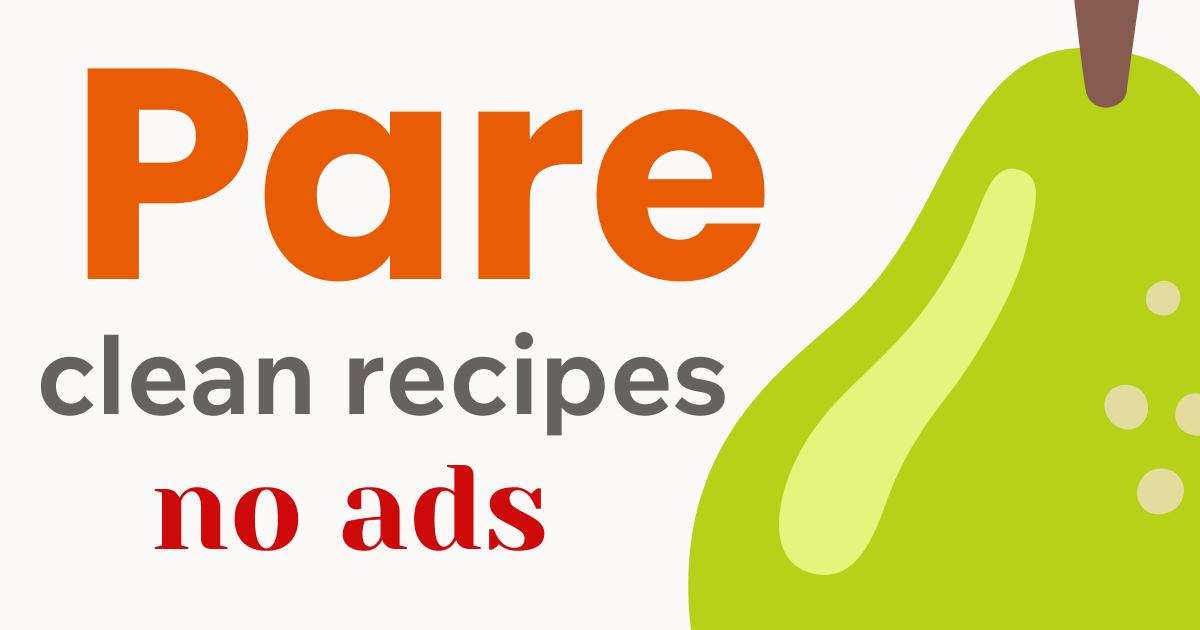
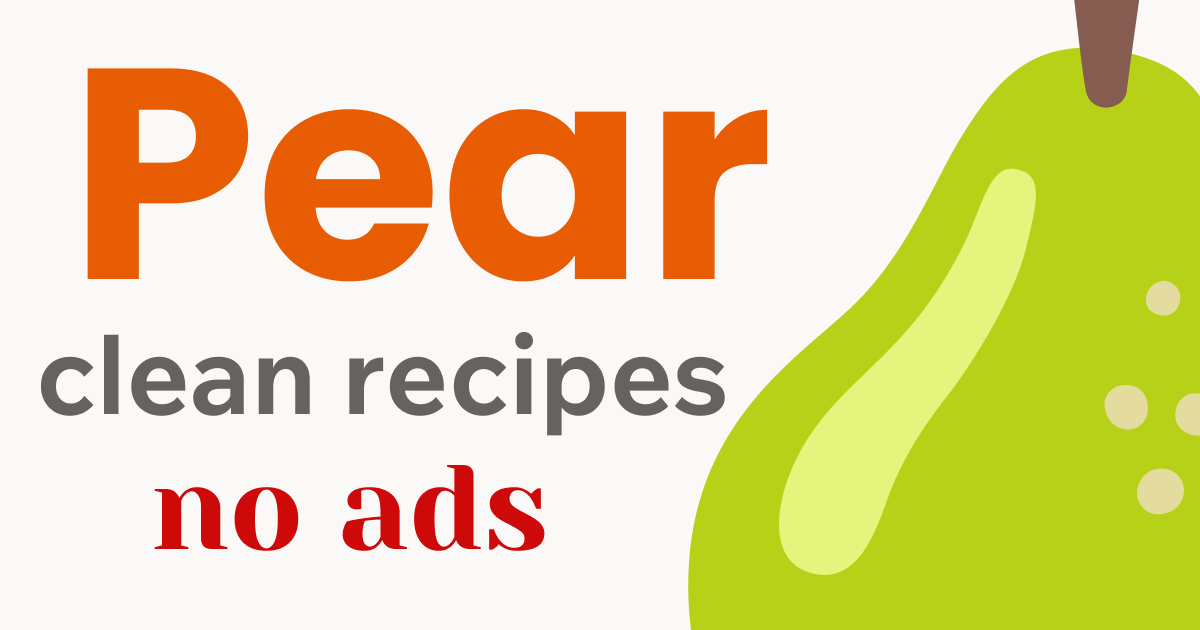
chore: rename to pear

Changed region(s): [[0.2467, 0.1508, 0.6475, 0.4524], [0.555, 0.1508, 0.5858, 0.181], [0.2775, 0.3619, 0.3083, 0.3921]]

diff --git a/ui/templates/index.html b/ui/templates/index.html
@@ -4,20 +4,20 @@
 <head>
   <meta charset="utf-8">
   <meta name="viewport" content="width=device-width,initial-scale=1">
-  <title>pare: nice recipes</title>
+  <title>pear: nice recipes</title>
   <link rel="icon" type="image/svg+xml" href="/static/favicon.svg">
   <link rel="stylesheet" href="/static/style.css">
-  <meta property="og:title" content="pare: nice recipes">
+  <meta property="og:title" content="pear: nice recipes">
   <meta property="og:type" content="website">
   <meta property="og:url" content="{{.BaseURL}}">
   <meta property="og:image" content="{{.BaseURL}}/static/og.png">
   <meta name="twitter:card" content="summary">
-  <meta name="twitter:title" content="pare: nice recipes">
+  <meta name="twitter:title" content="pear: nice recipes">
   <meta name="twitter:image" content="{{.BaseURL}}/static/og.png">
 </head>
 <body>
   <nav>
-    <a href="/" class="wordmark">pare</a>
+    <a href="/" class="wordmark">pear</a>
   </nav>
   <div class="page">
     <div class="hero">
@@ -25,14 +25,14 @@
       <div class="search-form">
         <form method="GET" action="/">
           <input type="text" name="url" placeholder="https://www.seriouseats.com/..." value="" autofocus>
-          <button type="submit">pare it</button>
+          <button type="submit">pear it</button>
         </form>
       </div>
     </div>
   </div>
   <footer>
     <span>made by <a href="https://dunkirk.sh" target="_blank" rel="noopener">Kieran Klukas</a></span>
-    <a href="https://tangled.org/dunkirk.sh/pare/commit/{{.GitHash}}" target="_blank" rel="noopener" class="commit-link">{{.GitHash}}</a>
+    <a href="https://tangled.org/dunkirk.sh/pear/commit/{{.GitHash}}" target="_blank" rel="noopener" class="commit-link">{{.GitHash}}</a>
   </footer>
 </body>
 </html>

diff --git a/ui/templates/recipe.html b/ui/templates/recipe.html
@@ -19,7 +19,7 @@
 </head>
 <body>
   <nav>
-    <a href="/" class="wordmark">pare</a>
+    <a href="/" class="wordmark">pear</a>
   </nav>
   <div class="page">
 {{if .Recipe.ImageURL}}
@@ -95,15 +95,15 @@ function saveChecks() {
     const label = li.querySelector('label').textContent;
     if (li.classList.contains('checked')) state[label] = true;
   });
-  localStorage.setItem('pare:' + location.pathname.slice(1), JSON.stringify({t: Date.now(), s: state}));
+  localStorage.setItem('pear:' + location.pathname.slice(1), JSON.stringify({t: Date.now(), s: state}));
 }
 
 function loadChecks() {
   try {
-    const raw = JSON.parse(localStorage.getItem('pare:' + location.pathname.slice(1)) || 'null');
+    const raw = JSON.parse(localStorage.getItem('pear:' + location.pathname.slice(1)) || 'null');
     if (!raw) return;
     if (Date.now() - raw.t > 48 * 60 * 60 * 1000) {
-      localStorage.removeItem('pare:' + location.pathname.slice(1));
+      localStorage.removeItem('pear:' + location.pathname.slice(1));
       return;
     }
     document.querySelectorAll('.ingredient-list li').forEach(li => {
@@ -233,7 +233,7 @@ if ('Notification' in window && Notification.permission === 'default') {
   </div>
   <footer>
     <span>made by <a href="https://dunkirk.sh" target="_blank" rel="noopener">Kieran Klukas</a></span>
-    <a href="https://tangled.org/dunkirk.sh/pare/commit/{{.GitHash}}" target="_blank" rel="noopener" class="commit-link">{{.GitHash}}</a>
+    <a href="https://tangled.org/dunkirk.sh/pear/commit/{{.GitHash}}" target="_blank" rel="noopener" class="commit-link">{{.GitHash}}</a>
   </footer>
 </body>
 </html>

diff --git a/ui/templates/loading.html b/ui/templates/loading.html
@@ -4,13 +4,13 @@
 <head>
   <meta charset="utf-8">
   <meta name="viewport" content="width=device-width,initial-scale=1">
-  <title>pare - extracting…</title>
+  <title>pear - extracting…</title>
   <link rel="icon" type="image/svg+xml" href="/static/favicon.svg">
   <link rel="stylesheet" href="/static/style.css">
 </head>
 <body>
   <nav>
-    <a href="/" class="wordmark">pare</a>
+    <a href="/" class="wordmark">pear</a>
   </nav>
   <div class="page">
     <div class="loading-box" id="loading-container">
@@ -22,7 +22,7 @@
   </div>
   <footer>
     <span>made by <a href="https://dunkirk.sh" target="_blank" rel="noopener">Kieran Klukas</a></span>
-    <a href="https://tangled.org/dunkirk.sh/pare/commit/{{.GitHash}}" target="_blank" rel="noopener" class="commit-link">{{.GitHash}}</a>
+    <a href="https://tangled.org/dunkirk.sh/pear/commit/{{.GitHash}}" target="_blank" rel="noopener" class="commit-link">{{.GitHash}}</a>
   </footer>
 <script>
 const targetURL = "{{.TargetURL | urlquery}}";

diff --git a/ui/templates/error.html b/ui/templates/error.html
@@ -4,13 +4,13 @@
 <head>
   <meta charset="utf-8">
   <meta name="viewport" content="width=device-width,initial-scale=1">
-  <title>pare - error</title>
+  <title>pear - error</title>
   <link rel="icon" type="image/svg+xml" href="/static/favicon.svg">
   <link rel="stylesheet" href="/static/style.css">
 </head>
 <body>
   <nav>
-    <a href="/" class="wordmark">pare</a>
+    <a href="/" class="wordmark">pear</a>
   </nav>
   <div class="page">
     <div class="error-box">
@@ -21,7 +21,7 @@
   </div>
   <footer>
     <span>made by <a href="https://dunkirk.sh" target="_blank" rel="noopener">Kieran Klukas</a></span>
-    <a href="https://tangled.org/dunkirk.sh/pare/commit/{{.GitHash}}" target="_blank" rel="noopener" class="commit-link">{{.GitHash}}</a>
+    <a href="https://tangled.org/dunkirk.sh/pear/commit/{{.GitHash}}" target="_blank" rel="noopener" class="commit-link">{{.GitHash}}</a>
   </footer>
 <script>
 const errorPhrases = [

diff --git a/ui/templates/cook.html b/ui/templates/cook.html
@@ -10,7 +10,7 @@
 </head>
 <body>
   <nav>
-    <a href="/" class="wordmark">pare</a>
+    <a href="/" class="wordmark">pear</a>
   </nav>
   <div class="page">
     <div class="cook-header">
@@ -31,7 +31,7 @@
   </div>
   <footer>
     <span>made by <a href="https://dunkirk.sh" target="_blank" rel="noopener">Kieran Klukas</a></span>
-    <a href="https://tangled.org/dunkirk.sh/pare/commit/{{.GitHash}}" target="_blank" rel="noopener" class="commit-link">{{.GitHash}}</a>
+    <a href="https://tangled.org/dunkirk.sh/pear/commit/{{.GitHash}}" target="_blank" rel="noopener" class="commit-link">{{.GitHash}}</a>
   </footer>
 <script>
 function copyCook() {

diff --git a/ui/templates/base.html b/ui/templates/base.html
@@ -4,13 +4,13 @@
 <head>
   <meta charset="utf-8">
   <meta name="viewport" content="width=device-width,initial-scale=1">
-  <title>{{block "title" .}}pare{{end}}</title>
+  <title>{{block "title" .}}pear{{end}}</title>
   <link rel="icon" type="image/svg+xml" href="/static/favicon.svg">
   <link rel="stylesheet" href="/static/style.css">
 </head>
 <body>
   <nav>
-    <a href="/" class="wordmark">pare</a>
+    <a href="/" class="wordmark">pear</a>
   </nav>
   <div class="page">
     {{block "content" .}}{{end}}

diff --git a/main.go b/main.go
@@ -19,11 +19,11 @@ import (
 	"github.com/go-chi/chi/v5/middleware"
 	"github.com/joho/godotenv"
 
-	"tangled.org/dunkirk.sh/pare/internal/cache"
-	"tangled.org/dunkirk.sh/pare/internal/cooklang"
-	"tangled.org/dunkirk.sh/pare/internal/extract"
-	"tangled.org/dunkirk.sh/pare/internal/models"
-	"tangled.org/dunkirk.sh/pare/ui"
+	"tangled.org/dunkirk.sh/pear/internal/cache"
+	"tangled.org/dunkirk.sh/pear/internal/cooklang"
+	"tangled.org/dunkirk.sh/pear/internal/extract"
+	"tangled.org/dunkirk.sh/pear/internal/models"
+	"tangled.org/dunkirk.sh/pear/ui"
 )
 
 var gitHash = "dev"
@@ -31,7 +31,7 @@ var gitHash = "dev"
 func main() {
 	godotenv.Load()
 	port := flag.Int("port", 3000, "port to listen on")
-	dbPath := flag.String("db", "pare.db", "path to SQLite database")
+	dbPath := flag.String("db", "pear.db", "path to SQLite database")
 	baseURL := flag.String("base-url", "", "base URL of this service")
 	flag.Parse()
 

diff --git a/internal/extract/pipeline.go b/internal/extract/pipeline.go
@@ -10,10 +10,10 @@ import (
 	"strings"
 	"time"
 
-	"tangled.org/dunkirk.sh/pare/internal/extract/hrecipe"
-	"tangled.org/dunkirk.sh/pare/internal/extract/schema"
-	"tangled.org/dunkirk.sh/pare/internal/extract/wprm"
-	"tangled.org/dunkirk.sh/pare/internal/models"
+	"tangled.org/dunkirk.sh/pear/internal/extract/hrecipe"
+	"tangled.org/dunkirk.sh/pear/internal/extract/schema"
+	"tangled.org/dunkirk.sh/pear/internal/extract/wprm"
+	"tangled.org/dunkirk.sh/pear/internal/models"
 )
 
 type Pipeline struct {

diff --git a/internal/extract/hrecipe/hrecipe.go b/internal/extract/hrecipe/hrecipe.go
@@ -3,8 +3,8 @@ package hrecipe
 import (
 	"strings"
 
-	"tangled.org/dunkirk.sh/pare/internal/extract/schema"
-	"tangled.org/dunkirk.sh/pare/internal/models"
+	"tangled.org/dunkirk.sh/pear/internal/extract/schema"
+	"tangled.org/dunkirk.sh/pear/internal/models"
 
 	"golang.org/x/net/html"
 )

diff --git a/internal/cooklang/export.go b/internal/cooklang/export.go
@@ -6,7 +6,7 @@ import (
 	"sort"
 	"strings"
 
-	"tangled.org/dunkirk.sh/pare/internal/models"
+	"tangled.org/dunkirk.sh/pear/internal/models"
 )
 
 func Export(recipe *models.Recipe) string {

diff --git a/internal/cache/cache.go b/internal/cache/cache.go
@@ -5,7 +5,7 @@ import (
 	"encoding/json"
 	"time"
 
-	"tangled.org/dunkirk.sh/pare/internal/models"
+	"tangled.org/dunkirk.sh/pear/internal/models"
 
 	_ "github.com/mattn/go-sqlite3"
 )

diff --git a/internal/extract/schema/jsonld.go b/internal/extract/schema/jsonld.go
@@ -7,7 +7,7 @@ import (
 	"strconv"
 	"strings"
 
-	"tangled.org/dunkirk.sh/pare/internal/models"
+	"tangled.org/dunkirk.sh/pear/internal/models"
 
 	"golang.org/x/net/html"
 )
